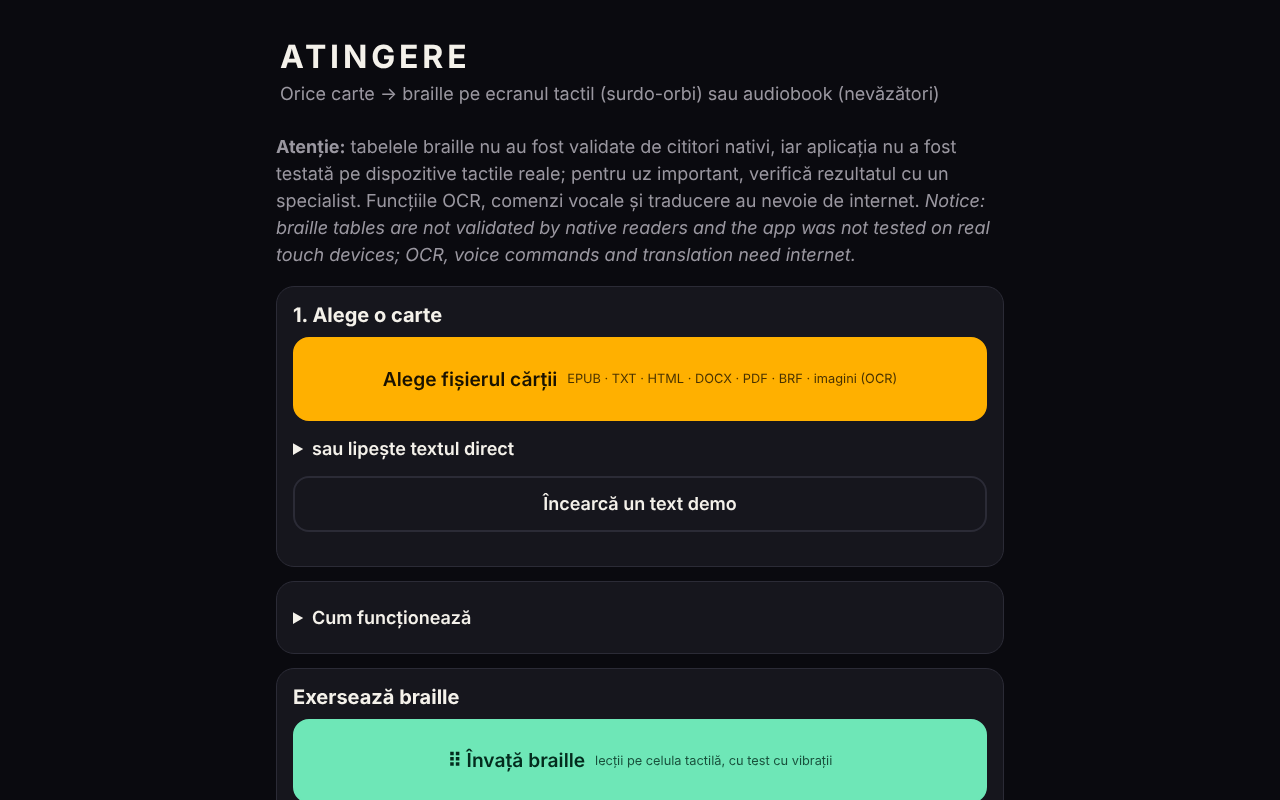
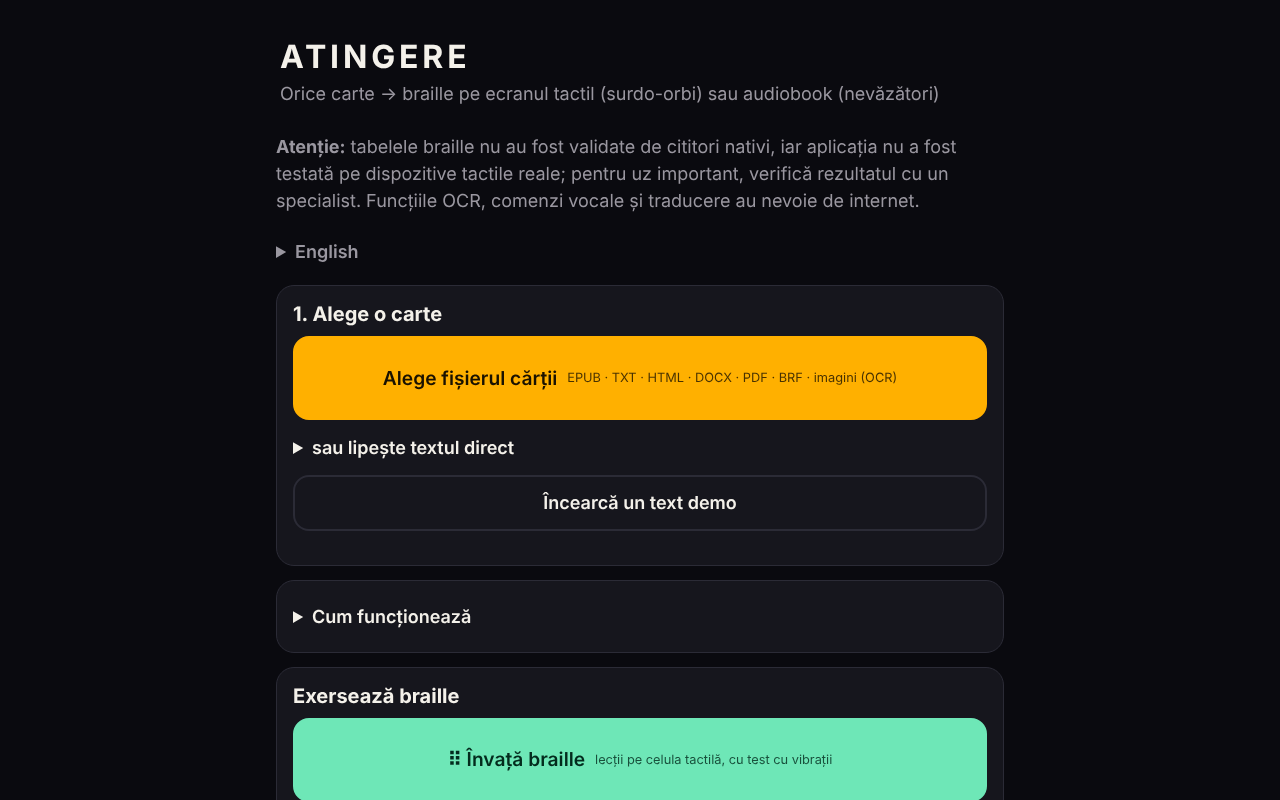
Runda 7 (11 octombrie 2026): defecte noi reparate, hash CSP, îmbunătățiri
Claude-Session: https://claude.ai/code/session_01D2sCEb3hy3nutYexhUfQFs

diff --git a/index.html b/index.html
@@ -43,6 +43,7 @@ input[type=checkbox]{width:26px;height:26px;vertical-align:middle;margin-right:1
 input[type=range]{width:100%;height:36px;accent-color:var(--acc)}
 label.f{display:block;margin:12px 0 4px;color:var(--dim);font-size:.9rem}
 .muted{color:var(--dim)}
+.btn:disabled{opacity:.55;cursor:wait}
 .warn{background:#3a1d1d;border:1px solid var(--bad);color:#ffd5d5;padding:10px 14px;margin:8px 12px;border-radius:12px;font-size:.95rem}
 [hidden]{display:none!important}.trp{border:2px dashed var(--line);border-radius:16px;padding:6px 14px 10px;margin:14px 0}.trp h3{margin:8px 0 2px}.stats{display:flex;flex-wrap:wrap;gap:8px 18px;color:var(--dim);margin:6px 0 10px;font-size:.95rem}
 .bar{display:flex;align-items:center;gap:8px;padding:8px 10px;padding-top:max(8px,env(safe-area-inset-top));background:#101018;border-bottom:1px solid var(--line)}
@@ -133,7 +134,8 @@ dialog:not([open]){display:none!important}
    <h1>ATINGERE</h1>
    <span class="tag">Orice carte → braille pe ecranul tactil (surdo-orbi) sau audiobook (nevăzători)</span>
   </header>
-  <p class="muted" id="valNote"><strong>Atenție:</strong> tabelele braille nu au fost validate de cititori nativi, iar aplicația nu a fost testată pe dispozitive tactile reale; pentru uz important, verifică rezultatul cu un specialist. Funcțiile OCR, comenzi vocale și traducere au nevoie de internet. <em>Notice: braille tables are not validated by native readers and the app was not tested on real touch devices; OCR, voice commands and translation need internet.</em></p>
+  <p class="muted" id="valNote"><strong>Atenție:</strong> tabelele braille nu au fost validate de cititori nativi, iar aplicația nu a fost testată pe dispozitive tactile reale; pentru uz important, verifică rezultatul cu un specialist. Funcțiile OCR, comenzi vocale și traducere au nevoie de internet.</p>
+  <details class="muted" id="valNoteEn"><summary lang="en">English</summary><p lang="en"><em>Notice: braille tables are not validated by native readers and the app was not tested on real touch devices; OCR, voice commands and translation need internet.</em></p></details>
 
   <section class="card">
    <h2>1. Alege o carte</h2>
@@ -174,6 +176,7 @@ dialog:not([open]){display:none!important}
    <h3 style="margin-top:18px">3. Sau exportă pentru embosare / afișaj braille</h3>
    <button id="exBrf" class="btn">Descarcă .BRF (40 celule × 25 rânduri)</button>
    <button id="exTxt" class="btn">Descarcă text Unicode braille (.txt)</button>
+   <p class="muted" id="exNote">.BRF folosește codificarea ASCII braille (Braille ASCII), cu pagini separate prin salt de pagină; textul Unicode păstrează punctele braille ca atare.</p>
   </section>
 
   <section class="card">
@@ -2500,13 +2503,20 @@ function download(name,data,type){
   setTimeout(()=>URL.revokeObjectURL(a.href),4000);
 }
 const slug=s=>(s||'carte').normalize('NFD').replace(/[\u0300-\u036f]/g,'').replace(/[^a-z0-9]+/gi,'-').replace(/^-|-$/g,'').toLowerCase().slice(0,50)||'carte';
+let _exBusy=false;
 async function doExport(kind){
-  if(!book)return;
-  await ensureBraille();
-  const pages=layoutBraille(br,{width:40,rows:25});
-  if(kind==='brf')download(slug(book.title)+'.brf',pagesToText(pages,'brf'),'text/plain');
-  else download(slug(book.title)+'-braille.txt','\uFEFF'+pagesToText(pages,'uni'),'text/plain;charset=utf-8');
-  toast(pages.length+' pagini braille exportate');
+  if(!book||_exBusy)return;
+  _exBusy=true;const bs=[$('#exBrf'),$('#exTxt')];bs.forEach(b=>b.disabled=true);
+  try{
+    await ensureBraille();
+    if(!br)throw new Error('textul nu a putut fi tradus în braille');
+    const pages=layoutBraille(br,{width:40,rows:25});
+    if(kind==='brf')download(slug(book.title)+'.brf',pagesToText(pages,'brf'),'text/plain');
+    else download(slug(book.title)+'-braille.txt','\uFEFF'+pagesToText(pages,'uni'),'text/plain;charset=utf-8');
+    toast(pages.length+' pagini braille exportate');
+  }catch(e){
+    setStatus('Exportul a eșuat: '+(e&&e.message||e));toast('Exportul a eșuat',3000);
+  }finally{_exBusy=false;bs.forEach(b=>b.disabled=false);}
 }
 $('#exBrf').addEventListener('click',()=>doExport('brf'));
 $('#exTxt').addEventListener('click',()=>doExport('uni'));

diff --git a/README.md b/README.md
@@ -57,6 +57,11 @@ Audit: 2026-10-10; rundă 2 (2026-10-11): avertisment de validare pe primul ecra
 
 ## Istoric / Changelog
 
+### 11 octombrie 2026 (runda 7)
+- Reparat: exportul .BRF/.txt prinde acum erorile (mesaj „Exportul a eșuat” în loc de eșec tăcut) și dezactivează butoanele cât timp rulează, ca să nu pornească două descărcări deodată; nu s-a putut reproduce un eșec de descărcare în Chromium (descărcările funcționează), deci cauza raportată rămâne neconfirmată.
+- Îmbunătățit: avertismentul de pe primul ecran este scurt în română, cu varianta engleză (marcată `lang="en"`) într-un panou „English”; notă despre codificarea ASCII braille a exportului .BRF.
+- Neschimbat: fără `script-src` în CSP și fără SRI (liblouis/`new Function`, workere și WASM de pe jsDelivr; nu pot fi verificate fără rețea); licențele rămân decizia autorului.
+
 ### 11 octombrie 2026 (runda 6)
 - Adăugat: buton „Tipărește” în pagina învățătorului, cu stil de tipărire care păstrează doar braille-ul și textul paragrafului; respectă `prefers-reduced-motion` și `prefers-contrast: more`.
 - Neschimbat: fără `script-src` în CSP (necesită `unsafe-eval` pentru liblouis, workere/WASM de pe jsDelivr pentru OCR și traducere, imposibil de verificat fără rețea).
